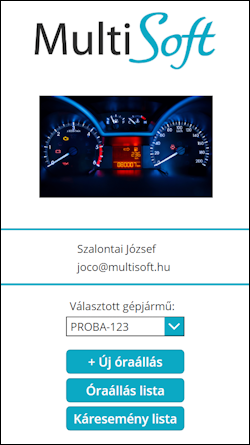
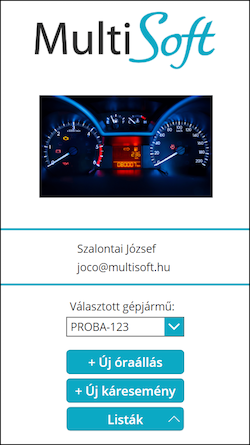
Login page overhaul, plus added services

diff --git a/docs/chapters/accidents/05_AccidentsList.md b/docs/chapters/accidents/05_AccidentsList.md
@@ -10,7 +10,7 @@ nav_order: 3
 ![accidents empty list](static/images/AccidentsListEmpty.png)
 ![accidents list with item](static/images/AccidentsList.png)
 
-Az Káresemény lista oldal hasonló az Óraállás listához, ezen is láthatóak a gépjármű főbb adatai valamint a korábban felvett káresemények:
+A **Káresemény lista** oldal hasonló az Óraállás listához, ezen is láthatóak a gépjármű főbb adatai valamint a korábban felvett káresemények:
 -	Üres lista esetén az *„Ehhez a gépjárműhöz még nem jelentettek káreseményt”* felirat jelenik meg
 -	A lista görgethető ha már nem férnek ki a képernyőre a káresemények
 -	Egy listaelemre koppintva az adott káresemény részletei jelennek meg egy újabb lapon
@@ -19,7 +19,7 @@ Az Káresemény lista oldal hasonló az Óraállás listához, ezen is látható
 
 Új káresemény felvételére az **Új káresemény** gombra kattintva nyílik lehetőség:
 
-![mileage record view](static/images/NewAccidentButton.png)
+![new accident button](static/images/NewAccidentButton.png)
 
 A **toolbar**on a következő elemek láthatóak (balról jobbra haladva):
 

diff --git a/docs/chapters/services/05_ServicesList.md b/docs/chapters/services/05_ServicesList.md
@@ -1,0 +1,26 @@
+---
+parent: Mileage Recorder
+title: Szervízek
+has_children: false
+nav_order: 3
+---
+
+# Szervízek
+
+![services empty list](static/images/ServicesListEmpty.png)
+![services list with item](static/images/ServicesList.png)
+
+A **Szervíz lista** oldal hasonló az Óraállás listához, ezen is láthatóak a gépjármű főbb adatai valamint a gépjárművön elvégzett szervízek:
+-	Üres lista esetén az *„Ehhez a gépjárműhöz még rögzítettek szervíz eseményt”* felirat jelenik meg
+-	A lista görgethető ha már nem férnek ki a képernyőre a szervíz események
+-	Egy listaelemre koppintva az adott szervíz részletei jelennek meg egy újabb lapon
+
+![services view](static/images/ServiceView.png)
+
+A **toolbar**on a következő elemek láthatóak (balról jobbra haladva):
+
+![accidents list toolbar](static/images/ServicesListToolbar.png)
+
+-	Vissza a [Kezdőoldal](../login/05_StartPage.md)ra
+-	(Cím)
+-	Rendezés szervíz dátuma szerint növekvő/csökkenő sorrendben

diff --git a/docs/chapters/login/05_StartPage.md b/docs/chapters/login/05_StartPage.md
@@ -14,6 +14,11 @@ Amikor betölt az applikáció, a következő kezdő képernyő látható:
 A *Választott gépjármű* felirat alatt, a lenyiló listában az adott felhasználóhoz rendelt összes gépjármű rendszáma látható. Ez az esetek 99%-ában 1 db járművet jelent és ez rögtön ki is van választva. 
 
 A gombokkal a következő funkciók érhetők el:
--   **+ Új óraállás**: rögtön az óraállás bejelentő oldalra navigál
--	**Óraállás lista**: az adott gépjárműhöz már korábban rögzített km-óraállásokat mutatja
--	**Káresemények**: az adott gépjárműhöz már korábban rögzített káreseményeket mutatja
+-   **+ Új óraállás**: az óraállás bejelentő oldalra navigál
+-	**+ Új káresemény**: a káresemény bejelentő oldalra navigál 
+-	**Listák**: az adott gépjárműhöz már korábban rögzített események listái
+    - **Óraállások**
+    - **Káresemények**
+    - **Szervízek**
+
+![login](static/images/LoginPage2.png)

diff --git a/docs/chapters/mileagerecords/05_MileageRecordsList.md b/docs/chapters/mileagerecords/05_MileageRecordsList.md
@@ -19,7 +19,7 @@ Az **Óraállás lista** oldalon a gépjármű főbb adatai láthatóak valamint
 
 Új óraállást diktálni az **Új óraállás** gombra kattintva nyílik lehetőség:
 
-![mileage record view](static/images/NewMileageRecordButton.png)
+![new mileage record button](static/images/NewMileageRecordButton.png)
 
 A **toolbar**on a következő elemek láthatóak (balról jobbra haladva):
 
